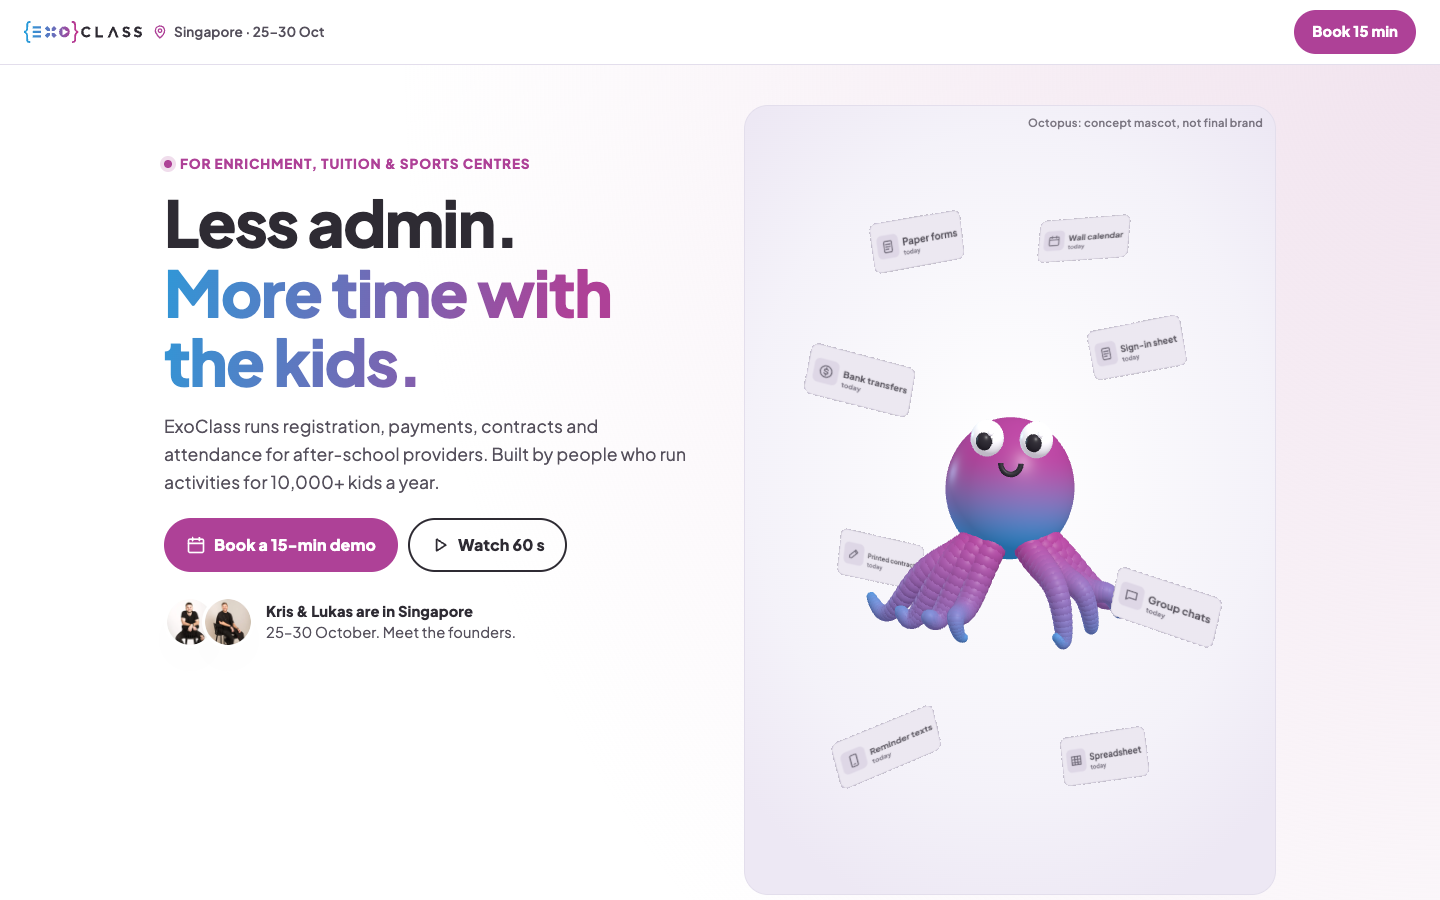
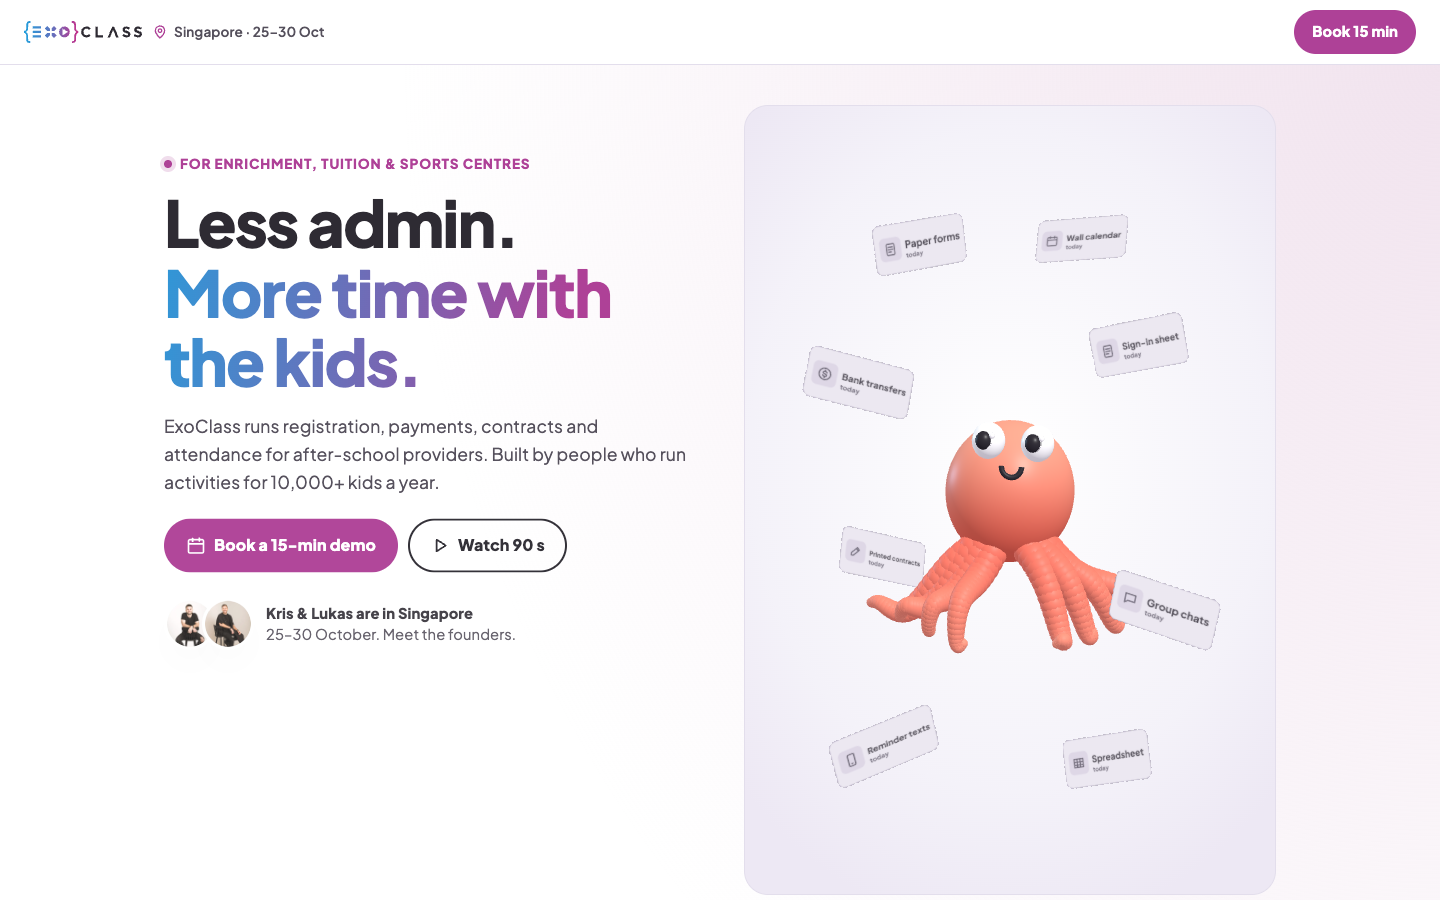
3D critic fixes: coral octopus matches Eight arms film (one mascot), concept label removed, films moved right after the stage, phones <768 px get the still-image version, tighter mobile story

diff --git a/3d/index.html b/3d/index.html
@@ -91,7 +91,6 @@
       <img class="stage-still" id="stageStill" src="img/stage-still-0.webp" alt="" width="900" height="900" decoding="async">
       <canvas id="stageCanvas"></canvas>
       <p class="stage-tip" id="stageTip"></p>
-      <p class="stage-concept">Octopus: concept mascot, not final brand</p>
     </div>
 
     <ol class="s-steps" id="steps">
@@ -119,7 +118,27 @@
       </li>
     </ol>
   </div>
-  <div class="wrap m-only">
+</section>
+
+<!-- VIDEO -->
+<section class="sec videos" id="video">
+  <div class="wrap">
+    <p class="kicker">ExoClass in two short films</p>
+    <h2 class="h2 h2-w">Eight arms show it. Kris explains why.</h2>
+    <figure class="vid vid-main">
+      <video id="filmEight" src="../assets/video/exoclass-eight-arms.mp4" poster="../assets/video/exoclass-eight-arms-poster.jpg" controls playsinline preload="none">
+        <track kind="captions" src="../assets/video/exoclass-eight-arms.en.vtt" srclang="en" label="English" default>
+      </video>
+      <figcaption>Eight jobs, one system: every ExoClass feature in 90 seconds. Animated product views; voice is Kris's cloned English voice. English captions on.</figcaption>
+    </figure>
+    <figure class="vid vid-main vid-2">
+      <video id="explainer" src="../assets/video/exoclass-sg.mp4" poster="../assets/video/exoclass-sg-poster.jpg" controls playsinline preload="none" hidden>
+        <track kind="captions" src="../assets/video/exoclass-sg.en.vtt" srclang="en" label="English" default>
+      </video>
+      <figcaption>Presenter video made with an AI avatar of Kris, in his own cloned voice. English captions on.</figcaption>
+    </figure>
+  </div>
+  <div class="wrap m-only m-phone">
     <figure class="step-phone">
       <img src="../assets/img/live-widget-mobile.webp" alt="ExoClass booking page on a phone, English, demo data" width="500" height="1080" loading="lazy">
       <figcaption class="tag tag-live">Real product · demo data · price hidden</figcaption>
@@ -148,26 +167,6 @@
       <li><svg class="ic"><use href="#i-chat"/></svg><b>Messages</b><span>The same parent questions, late at night.</span></li>
     </ul>
     <p class="pains-note">We know it first-hand. We run Robotics Academy, and the paperwork almost ran us. A karate club owner told us the hardest part was reminding parents, face to face, that they hadn't paid. ExoClass sends those reminders now.</p>
-  </div>
-</section>
-
-<!-- VIDEO -->
-<section class="sec videos" id="video">
-  <div class="wrap">
-    <p class="kicker">ExoClass in two short films</p>
-    <h2 class="h2 h2-w">Eight arms show it. Kris explains why.</h2>
-    <figure class="vid vid-main">
-      <video id="filmEight" src="../assets/video/exoclass-eight-arms.mp4" poster="../assets/video/exoclass-eight-arms-poster.jpg" controls playsinline preload="none">
-        <track kind="captions" src="../assets/video/exoclass-eight-arms.en.vtt" srclang="en" label="English" default>
-      </video>
-      <figcaption>Eight jobs, one system: every ExoClass feature in 90 seconds. Animated product views; voice is Kris's cloned English voice. English captions on.</figcaption>
-    </figure>
-    <figure class="vid vid-main vid-2">
-      <video id="explainer" src="../assets/video/exoclass-sg.mp4" poster="../assets/video/exoclass-sg-poster.jpg" controls playsinline preload="none" hidden>
-        <track kind="captions" src="../assets/video/exoclass-sg.en.vtt" srclang="en" label="English" default>
-      </video>
-      <figcaption>Presenter video made with an AI avatar of Kris, in his own cloned voice. English captions on.</figcaption>
-    </figure>
   </div>
 </section>
 

diff --git a/3d/js/stage.js b/3d/js/stage.js
@@ -67,7 +67,9 @@ function hasGL() {
 }
 function fallback() { stage.classList.add('no3d'); stage.classList.remove('ready'); lastStep = -1; markSteps(); }
 
-if (reduce || !hasGL() || Q.get('no3d') === '1') {
+// 3D is desktop-only: phones (< 768 px) get the light still-image version, three.js never loads
+const PHONE = innerWidth < 768 && STILL === null;
+if (reduce || PHONE || !hasGL() || Q.get('no3d') === '1') {
   fallback();
 } else {
   markSteps();
@@ -93,13 +95,14 @@ async function boot() {
   const key = new THREE.DirectionalLight(0xffffff, 2.0); key.position.set(2.5, 4, 5); scene.add(key);
   const rim = new THREE.DirectionalLight(0x9fd0f2, 0.9); rim.position.set(-4, 1, -3); scene.add(rim);
 
-  const MAG = new THREE.Color('#AE4197'), BLUE = new THREE.Color('#3097D7');
+  // one mascot: coral octopus sampled from the Eight arms film (frame at 25 s): head #FB7865, highlight #F69F83
+  const CORAL = new THREE.Color('#FB7865'), CORAL_L = new THREE.Color('#F9A188'), CORAL_D = new THREE.Color('#EC6552');
 
-  // octopus (concept mascot): head with brand gradient, eyes, 8 bead arms in one instanced draw call
+  // octopus (same coral mascot as the Eight arms film): head gradient, eyes, 8 bead arms in one instanced draw call
   const oct = new THREE.Group(); scene.add(oct);
   const headGeo = new THREE.SphereGeometry(0.6, 48, 32);
   { const pos = headGeo.attributes.position, col = [], c = new THREE.Color();
-    for (let k = 0; k < pos.count; k++) { const t = clamp((pos.getY(k) + 0.6) / 1.2, 0, 1); c.copy(BLUE).lerp(MAG, sstep(0.05, 0.75, t)); col.push(c.r, c.g, c.b); }
+    for (let k = 0; k < pos.count; k++) { const t = clamp((pos.getY(k) + 0.6) / 1.2, 0, 1); c.copy(CORAL_D).lerp(CORAL_L, sstep(0.05, 0.95, t)); col.push(c.r, c.g, c.b); }
     headGeo.setAttribute('color', new THREE.Float32BufferAttribute(col, 3)); }
   const skin = new THREE.MeshStandardMaterial({ vertexColors: true, roughness: 0.42, metalness: 0 });
   const head = new THREE.Mesh(headGeo, skin); head.scale.set(1, 1.1, 0.95); head.position.y = 0.32; oct.add(head);
@@ -118,7 +121,7 @@ async function boot() {
 
   const NA = 8, NS = 28;
   const beads = new THREE.InstancedMesh(new THREE.SphereGeometry(1, 14, 10), new THREE.MeshStandardMaterial({ roughness: 0.45 }), NA * NS);
-  { const c = new THREE.Color(); for (let a = 0; a < NA; a++) for (let s = 0; s < NS; s++) { c.copy(MAG).lerp(BLUE, (s / (NS - 1)) * 0.85); beads.setColorAt(a * NS + s, c); } }
+  { const c = new THREE.Color(); for (let a = 0; a < NA; a++) for (let s = 0; s < NS; s++) { c.copy(CORAL).lerp(CORAL_L, (s / (NS - 1)) * 0.7); beads.setColorAt(a * NS + s, c); } }
   oct.add(beads);
 
   // cards: front = today's tool, back = ExoClass job

diff --git a/3d/css/3d.css b/3d/css/3d.css
@@ -15,7 +15,6 @@
 .stage-tip{position:absolute;left:12px;right:12px;bottom:12px;margin:0;min-height:44px;padding:10px 14px;border-radius:12px;background:rgba(255,255,255,.94);border:1px solid var(--line);box-shadow:0 10px 24px -18px rgba(46,43,51,.6);font-size:.92rem;line-height:1.4;color:var(--ink-2);opacity:0;transform:translateY(6px);transition:opacity .25s,transform .25s;pointer-events:none}
 .stage-tip.on{opacity:1;transform:none}
 .stage-tip b{color:var(--mag)}
-.stage-concept{position:absolute;top:8px;right:12px;margin:0;font-size:.7rem;font-weight:600;letter-spacing:.02em;color:rgba(85,80,92,.75)}
 
 .s-steps{grid-area:steps;list-style:none;margin:0;padding:0 0 40px;position:relative;z-index:1}
 .step{min-height:62vh;padding:18px 0;display:flex;flex-direction:column;justify-content:flex-start}
@@ -28,7 +27,7 @@
 .step{margin:0 calc(var(--gutter) * -1);padding:20px var(--gutter)}
 .step .step-n,.step .step-h,.step p,.step .step-chips,.step .step-phone{max-width:34em}
 @media (max-width:999px){
-  .step{min-height:auto;margin-top:34vh;background:rgba(255,255,255,.96);border-top:1px solid var(--line);border-bottom:1px solid var(--line);box-shadow:0 -14px 30px -24px rgba(46,43,51,.5)}
+  .step{min-height:auto;margin-top:12vh;background:rgba(255,255,255,.96);border-top:1px solid var(--line);border-bottom:1px solid var(--line);box-shadow:0 -14px 30px -24px rgba(46,43,51,.5)}
   .step:first-child{margin-top:0}
   .step:last-child{margin-bottom:0}
 }
@@ -66,3 +65,7 @@
 .m-only{display:block;padding-top:8px;padding-bottom:36px}
 .d-only{display:none}
 @media (min-width:1000px){ .m-only{display:none} .d-only{display:block} }
+/* phones: the real product phone sits under the films, on the dark video band */
+.m-phone{padding-top:28px;padding-bottom:0}
+.m-phone .step-phone img{border-color:#000}
+@media (max-width:639px){ .s-stage{height:min(42vh,360px)} }
